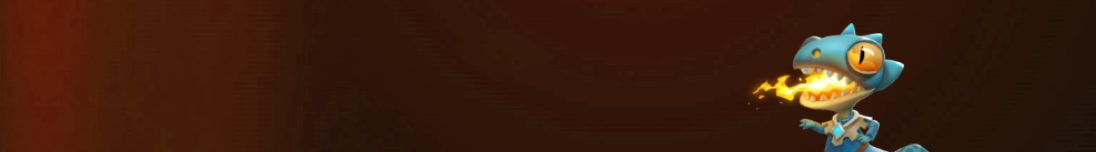
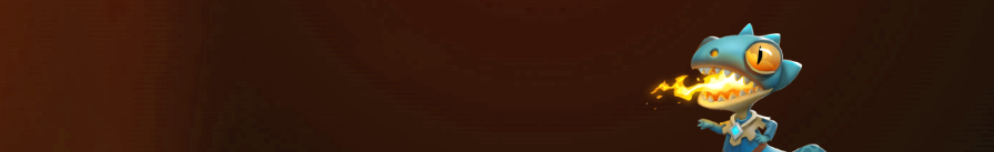
up

diff --git a/src/components/cards/UnitCard.js b/src/components/cards/UnitCard.js
@@ -89,15 +89,15 @@ const UnitCard = ({ unit, marketData, walletData }) => {
             <p className="text-textSecondary font-semibold mb-1 text-sm sm:text-base md:text-base lg:text-base">In Wallet</p>
             <div className="border-0 border-commonColor rounded-t-lg rounded-md pl-2 pr-2 m-0 mb-0.5 flex justify-between items-center">
               <span className={`font-semibold text-sm sm:text-sm md:text-sm lg:text-base text-right ${c_amount === 0 ? 'text-textSecondary' : 'text-commonColor'}`}>{c_amount === 0 ? 'Common' : c_amount + ' x Common '}</span>
-              <span className={`font-semibold text-sm sm:text-sm md:text-sm lg:text-base text-right ${c_amount === 0 ? 'text-textSecondary' : 'text-commonColor'}`}>{c_amount === 0 ? 'None' : c_total}</span>
+              <span className={`font-semibold text-sm sm:text-sm md:text-sm lg:text-base text-right ${c_amount === 0 ? 'text-textSecondary' : 'text-commonColor'}`}>{c_amount === 0 ? 'None' :  <PriceViewer price={c_total} size={'sm'} color={total == 0 ? 'textSecondary' : 'text-commonColor'}/>}</span>
             </div>
             <div className="border-0 border-uncommonColor rounded-t-lg rounded-md pl-2 pr-2 m-0 mb-0.5 flex justify-between items-center">
               <span className={`font-semibold text-sm sm:text-sm md:text-sm lg:text-base text-right ${u_amount === 0 ? 'text-textSecondary' : 'text-uncommonColor'}`}>{u_amount === 0 ? 'Uncommon' : u_amount + ' x Uncommon '}</span>
-              <span className={`font-semibold text-sm sm:text-sm md:text-sm lg:text-base text-right ${u_amount === 0 ? 'text-textSecondary' : 'text-uncommonColor'}`}>{u_amount === 0 ? 'None' : u_total}</span>
+              <span className={`font-semibold text-sm sm:text-sm md:text-sm lg:text-base text-right ${u_amount === 0 ? 'text-textSecondary' : 'text-uncommonColor'}`}>{u_amount === 0 ? 'None' : <PriceViewer price={u_total} size={'sm'} color={total == 0 ? 'textSecondary' : 'text-uncommonColor'}/>}</span>
             </div>
             <div className="border-0 border-rareColor rounded-t-lg rounded-md pl-2 pr-2 m-0 mb-0.5 flex justify-between items-center">
               <span className={`font-semibold text-sm sm:text-sm md:text-sm lg:text-base text-right ${r_amount === 0 ? 'text-textSecondary' : 'text-rareColor'}`}>{r_amount === 0 ? 'Rare' : r_amount + ' x Rare '}</span>
-              <span className={`font-semibold text-sm sm:text-sm md:text-sm lg:text-base text-right ${r_amount === 0 ? 'text-textSecondary' : 'text-rareColor'}`}>{r_amount === 0 ? 'None' : r_total}</span>
+              <span className={`font-semibold text-sm sm:text-sm md:text-sm lg:text-base text-right ${r_amount === 0 ? 'text-textSecondary' : 'text-rareColor'}`}>{r_amount === 0 ? 'None' : <PriceViewer price={r_total} size={'sm'} color={total == 0 ? 'textSecondary' : 'text-rareColor'}/>}</span>
             </div>
             <hr className="border-1 border-accent1 mt-3" />
           <div className="rounded-md m-0 mb-0.5 mt-1 flex justify-between items-center">

diff --git a/src/components/Home.js b/src/components/Home.js
@@ -1,5 +1,5 @@
 import React, { useState } from 'react';
-import Background from '../assets/images/logo.jpeg';
+import Background from '../assets/images/logo2.png';
 import Logo from '../assets/images/logo.png';
 import Menu from './Menu';
 import Footer from './Footer';
@@ -18,13 +18,14 @@ const Home = () => {
       <Menu />
 
       <div
-        className="flex-1 flex justify-center items-center bg-black bg-opacity-80"
-        style={{
-          backgroundImage: `url(${Background})`,
-          backgroundSize: 'cover',
-          backgroundPosition: 'center',
-          backgroundAttachment: 'fixed',
-        }}
+  className="flex-1 flex justify-center items-center bg-black bg-opacity-80"
+  style={{
+    backgroundImage: `url(${Background})`,
+    backgroundSize: 'cover',
+    backgroundPosition: 'center',
+    backgroundAttachment: 'fixed',
+    backgroundRepeat: 'no-repeat',
+  }}
       >
         <div className="z-10 text-white text-center bg-primary bg-opacity-70 rounded-md pt-10 pb-4 pl-4 pr-4 max-w-screen-sm w-full">
           <img

diff --git a/src/components/extra/PriceViewer.js b/src/components/extra/PriceViewer.js
@@ -11,7 +11,7 @@ const PriceViewer = ({ price, size, color }) => {
 
   return (
     <div className={`text-${color} font-semibold text-sm sm:text-sm md:text-${size} lg:text-${size}`}>
-      {selectedOption === 'ron' ? price : price_ron } {selectedOption === 'ron' ? '' : '$'} {selectedOption === 'ron' && <RonIcon style={{ display: 'inline-block', marginLeft:-6, marginRight:-3 }} />}
+      {selectedOption === 'ron' ? price : price_ron }{selectedOption === 'ron' ? '' : '$'} {selectedOption === 'ron' && <RonIcon style={{ display: 'inline-block', marginLeft:-6, marginRight:-3 }} />}
     </div>
   );
 };
